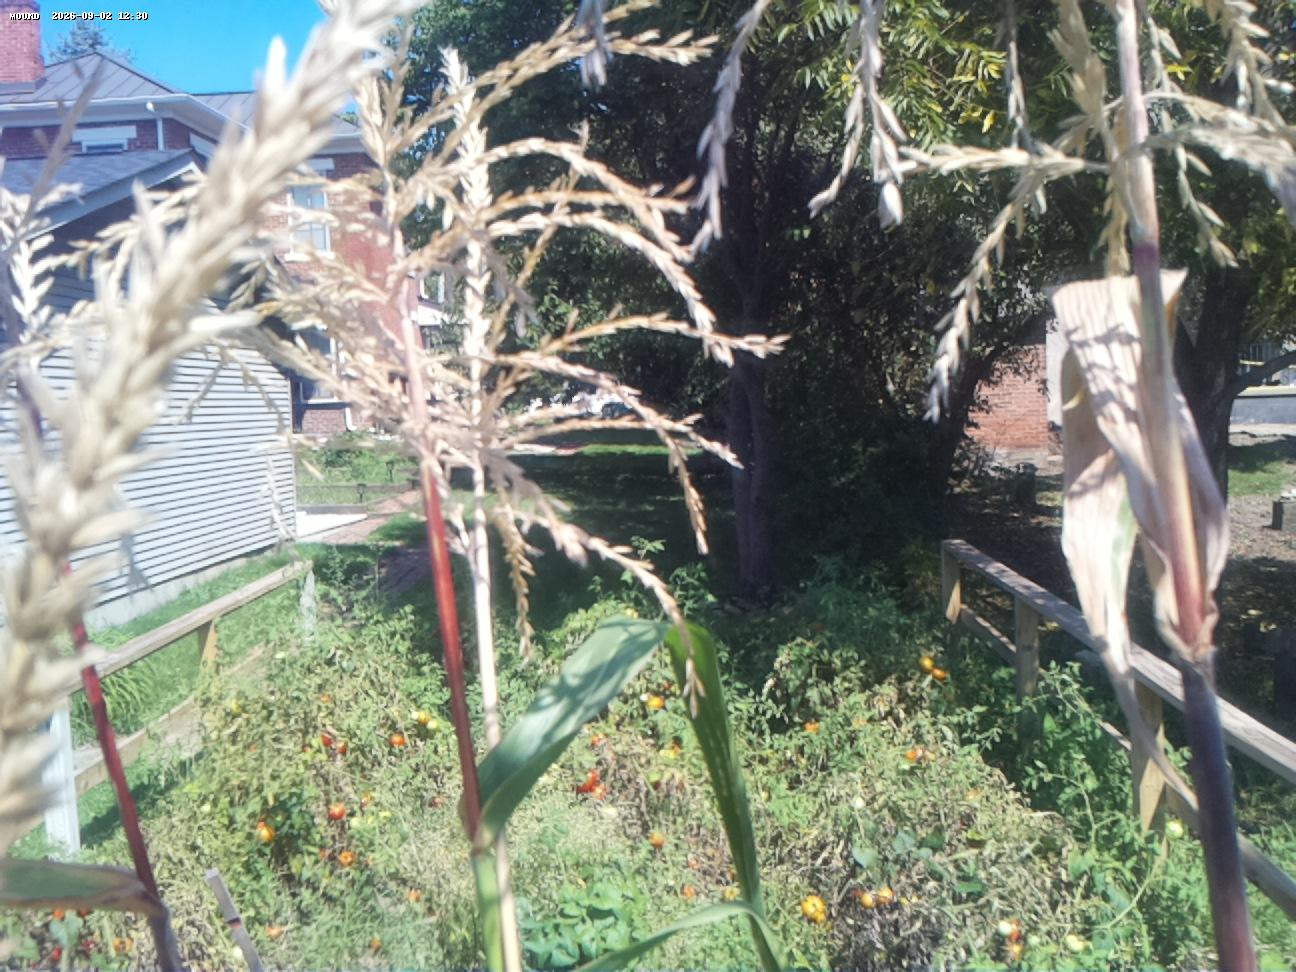
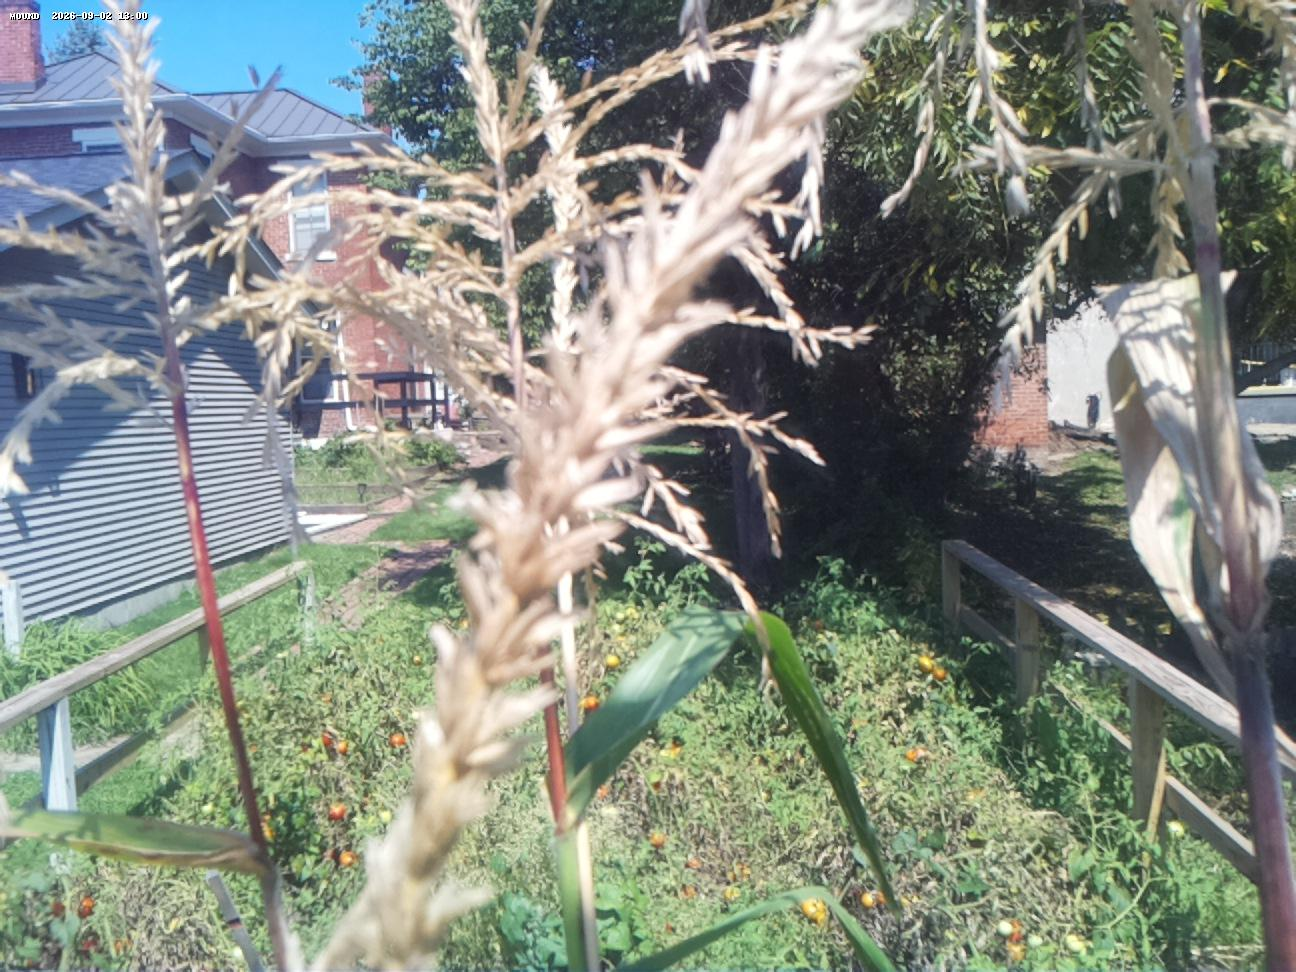
changed index.html to data_archive.html

diff --git a/page/data_archive.html b/page/data_archive.html
@@ -38,18 +38,18 @@
 
       <hr style="border:none; border-top: 1px solid #ccc; margin: 1rem 0;">
 
-      <p><strong>Last reading:</strong> 2026-09-02 13:10:03</p>
+      <p><strong>Last reading:</strong> 2026-09-02 13:20:03</p>
 
       <table style="border:none; border-collapse:collapse; font-family:inherit; font-size:inherit; color:inherit;">
-        <tr><td style="padding: 0.2rem 1.5rem 0.2rem 0;">Air Temperature</td><td>103.9 F</td></tr>
-        <tr><td style="padding: 0.2rem 1.5rem 0.2rem 0;">Humidity</td><td>45.2%</td></tr>
-        <tr><td style="padding: 0.2rem 1.5rem 0.2rem 0;">Pressure</td><td>990.9 hPa</td></tr>
-        <tr><td style="padding: 0.2rem 1.5rem 0.2rem 0;">Light</td><td>1980 lux</td></tr>
-        <tr><td style="padding: 0.2rem 1.5rem 0.2rem 0;">Soil Temperature</td><td>90.4 F</td></tr>
+        <tr><td style="padding: 0.2rem 1.5rem 0.2rem 0;">Air Temperature</td><td>104.5 F</td></tr>
+        <tr><td style="padding: 0.2rem 1.5rem 0.2rem 0;">Humidity</td><td>46.6%</td></tr>
+        <tr><td style="padding: 0.2rem 1.5rem 0.2rem 0;">Pressure</td><td>990.8 hPa</td></tr>
+        <tr><td style="padding: 0.2rem 1.5rem 0.2rem 0;">Light</td><td>834 lux</td></tr>
+        <tr><td style="padding: 0.2rem 1.5rem 0.2rem 0;">Soil Temperature</td><td>91.0 F</td></tr>
         <tr><td style="padding: 0.2rem 1.5rem 0.2rem 0;">Soil Moisture</td><td>Saturated</td></tr>
         <tr><td style="padding: 0.2rem 1.5rem 0.2rem 0;">Rain</td><td>No</td></tr>
-        <tr><td style="padding: 0.2rem 1.5rem 0.2rem 0;">Battery Voltage</td><td>13.81 V</td></tr>
-        <tr><td style="padding: 0.2rem 1.5rem 0.2rem 0;">Battery Current</td><td>69.1 mA</td></tr>
+        <tr><td style="padding: 0.2rem 1.5rem 0.2rem 0;">Battery Voltage</td><td>14.17 V</td></tr>
+        <tr><td style="padding: 0.2rem 1.5rem 0.2rem 0;">Battery Current</td><td>-1339.4 mA</td></tr>
       </table>
 
       <hr style="border:none; border-top: 1px solid #ccc; margin: 1rem 0;">

diff --git a/page/archive/2026-09.html b/page/archive/2026-09.html
@@ -29,7 +29,7 @@
     <h1><a href="../../index.html">| yesteryear forever |</a></h1>
     <blockquote>
       <p><strong>MOUND -- September 2026</strong></p>
-      <p><a href="index.html">&larr; back to archive</a> &nbsp;·&nbsp; <a href="../index.html">back to live data</a></p>
+      <p><a href="index.html">&larr; back to archive</a> &nbsp;·&nbsp; <a href="../data_archive.html">back to live data</a></p>
       <hr style="border:none; border-top: 1px solid #ccc; margin: 1rem 0;">
       <ul style="list-style:none; padding:0;">
 <li><a href="../graphs/archive/2026-09-01.png">2026-09-01</a></li>

diff --git a/page/archive/2026-08.html b/page/archive/2026-08.html
@@ -29,7 +29,7 @@
     <h1><a href="../../index.html">| yesteryear forever |</a></h1>
     <blockquote>
       <p><strong>MOUND -- August 2026</strong></p>
-      <p><a href="index.html">&larr; back to archive</a> &nbsp;·&nbsp; <a href="../index.html">back to live data</a></p>
+      <p><a href="index.html">&larr; back to archive</a> &nbsp;·&nbsp; <a href="../data_archive.html">back to live data</a></p>
       <hr style="border:none; border-top: 1px solid #ccc; margin: 1rem 0;">
       <ul style="list-style:none; padding:0;">
 <li><a href="../graphs/archive/2026-08-31.png">2026-08-31</a></li>

diff --git a/page/archive/2026-06.html b/page/archive/2026-06.html
@@ -29,7 +29,7 @@
     <h1><a href="../../index.html">| yesteryear forever |</a></h1>
     <blockquote>
       <p><strong>MOUND -- June 2026</strong></p>
-      <p><a href="index.html">&larr; back to archive</a> &nbsp;·&nbsp; <a href="../index.html">back to live data</a></p>
+      <p><a href="index.html">&larr; back to archive</a> &nbsp;·&nbsp; <a href="../data_archive.html">back to live data</a></p>
       <hr style="border:none; border-top: 1px solid #ccc; margin: 1rem 0;">
       <ul style="list-style:none; padding:0;">
 <li><a href="../graphs/archive/2026-06-30.png">2026-06-30</a></li>

diff --git a/page/archive/2026-07.html b/page/archive/2026-07.html
@@ -29,7 +29,7 @@
     <h1><a href="../../index.html">| yesteryear forever |</a></h1>
     <blockquote>
       <p><strong>MOUND -- July 2026</strong></p>
-      <p><a href="index.html">&larr; back to archive</a> &nbsp;·&nbsp; <a href="../index.html">back to live data</a></p>
+      <p><a href="index.html">&larr; back to archive</a> &nbsp;·&nbsp; <a href="../data_archive.html">back to live data</a></p>
       <hr style="border:none; border-top: 1px solid #ccc; margin: 1rem 0;">
       <ul style="list-style:none; padding:0;">
 <li><a href="../graphs/archive/2026-07-22.png">2026-07-22</a></li>

diff --git a/page/archive/index.html b/page/archive/index.html
@@ -29,7 +29,7 @@
     <h1><a href="../../index.html">| yesteryear forever |</a></h1>
     <blockquote>
       <p><strong>MOUND -- Archive</strong></p>
-      <p><a href="../index.html">&larr; back to live data</a></p>
+      <p><a href="../data_archive.html">&larr; back to live data</a></p>
       <hr style="border:none; border-top: 1px solid #ccc; margin: 1rem 0;">
       <p><strong>Browse by month</strong></p>
       <ul style="list-style:none; padding:0;">

diff --git a/scripts/generate_page.py b/scripts/generate_page.py
@@ -5,7 +5,7 @@ from datetime import datetime
 month = datetime.now().strftime('%Y-%m')
 today = datetime.now().strftime('%Y-%m-%d')
 data_file = f'/home/ramblinray/mound/data/{month}.txt'
-output_file = '/home/ramblinray/mound/page/index.html'
+output_file = '/home/ramblinray/mound/page/data_archive.html'
 json_path = '/home/ramblinray/mound/data/latest.json'
 archive_page_dir = '/home/ramblinray/mound/page/archive'
 os.makedirs('/home/ramblinray/mound/page', exist_ok=True)
@@ -126,7 +126,7 @@ except:
 
 # Archive pages live two directories below site root (mound/archive/),
 # so stylesheet, script, and nav links all need ../../ instead of the
-# single ../ that mound/index.html uses.
+# single ../ that mound/data_archive.html uses.
 archive_topnav = """
   <nav id="topnav">
     <div id="topnav-inner">
@@ -171,7 +171,7 @@ archive_index_html = f"""<!DOCTYPE html>
     <h1><a href="../../index.html">| yesteryear forever |</a></h1>
     <blockquote>
       <p><strong>MOUND -- Archive</strong></p>
-      <p><a href="../index.html">&larr; back to live data</a></p>
+      <p><a href="../data_archive.html">&larr; back to live data</a></p>
       <hr style="border:none; border-top: 1px solid #ccc; margin: 1rem 0;">
       <p><strong>Browse by month</strong></p>
       <ul style="list-style:none; padding:0;">
@@ -212,7 +212,7 @@ for ym, dates in months.items():
     <h1><a href="../../index.html">| yesteryear forever |</a></h1>
     <blockquote>
       <p><strong>MOUND -- {label}</strong></p>
-      <p><a href="index.html">&larr; back to archive</a> &nbsp;·&nbsp; <a href="../index.html">back to live data</a></p>
+      <p><a href="index.html">&larr; back to archive</a> &nbsp;·&nbsp; <a href="../data_archive.html">back to live data</a></p>
       <hr style="border:none; border-top: 1px solid #ccc; margin: 1rem 0;">
       <ul style="list-style:none; padding:0;">
 {day_links}

diff --git a/scripts/update_site.py b/scripts/update_site.py
@@ -57,8 +57,8 @@ subprocess.run(['python', '/home/ramblinray/mound/scripts/generate_page.py'])
 
 page_scp = subprocess.run([
     'scp',
-    '/home/ramblinray/mound/page/index.html',
-    'ramblinray@192.168.1.33:/var/www/html/mound/index.html'
+    '/home/ramblinray/mound/page/data_archive.html',
+    'ramblinray@192.168.1.33:/var/www/html/mound/data_archive.html'
 ])
 if page_scp.returncode == 0:
     print("Page uploaded to ramblinray!")
